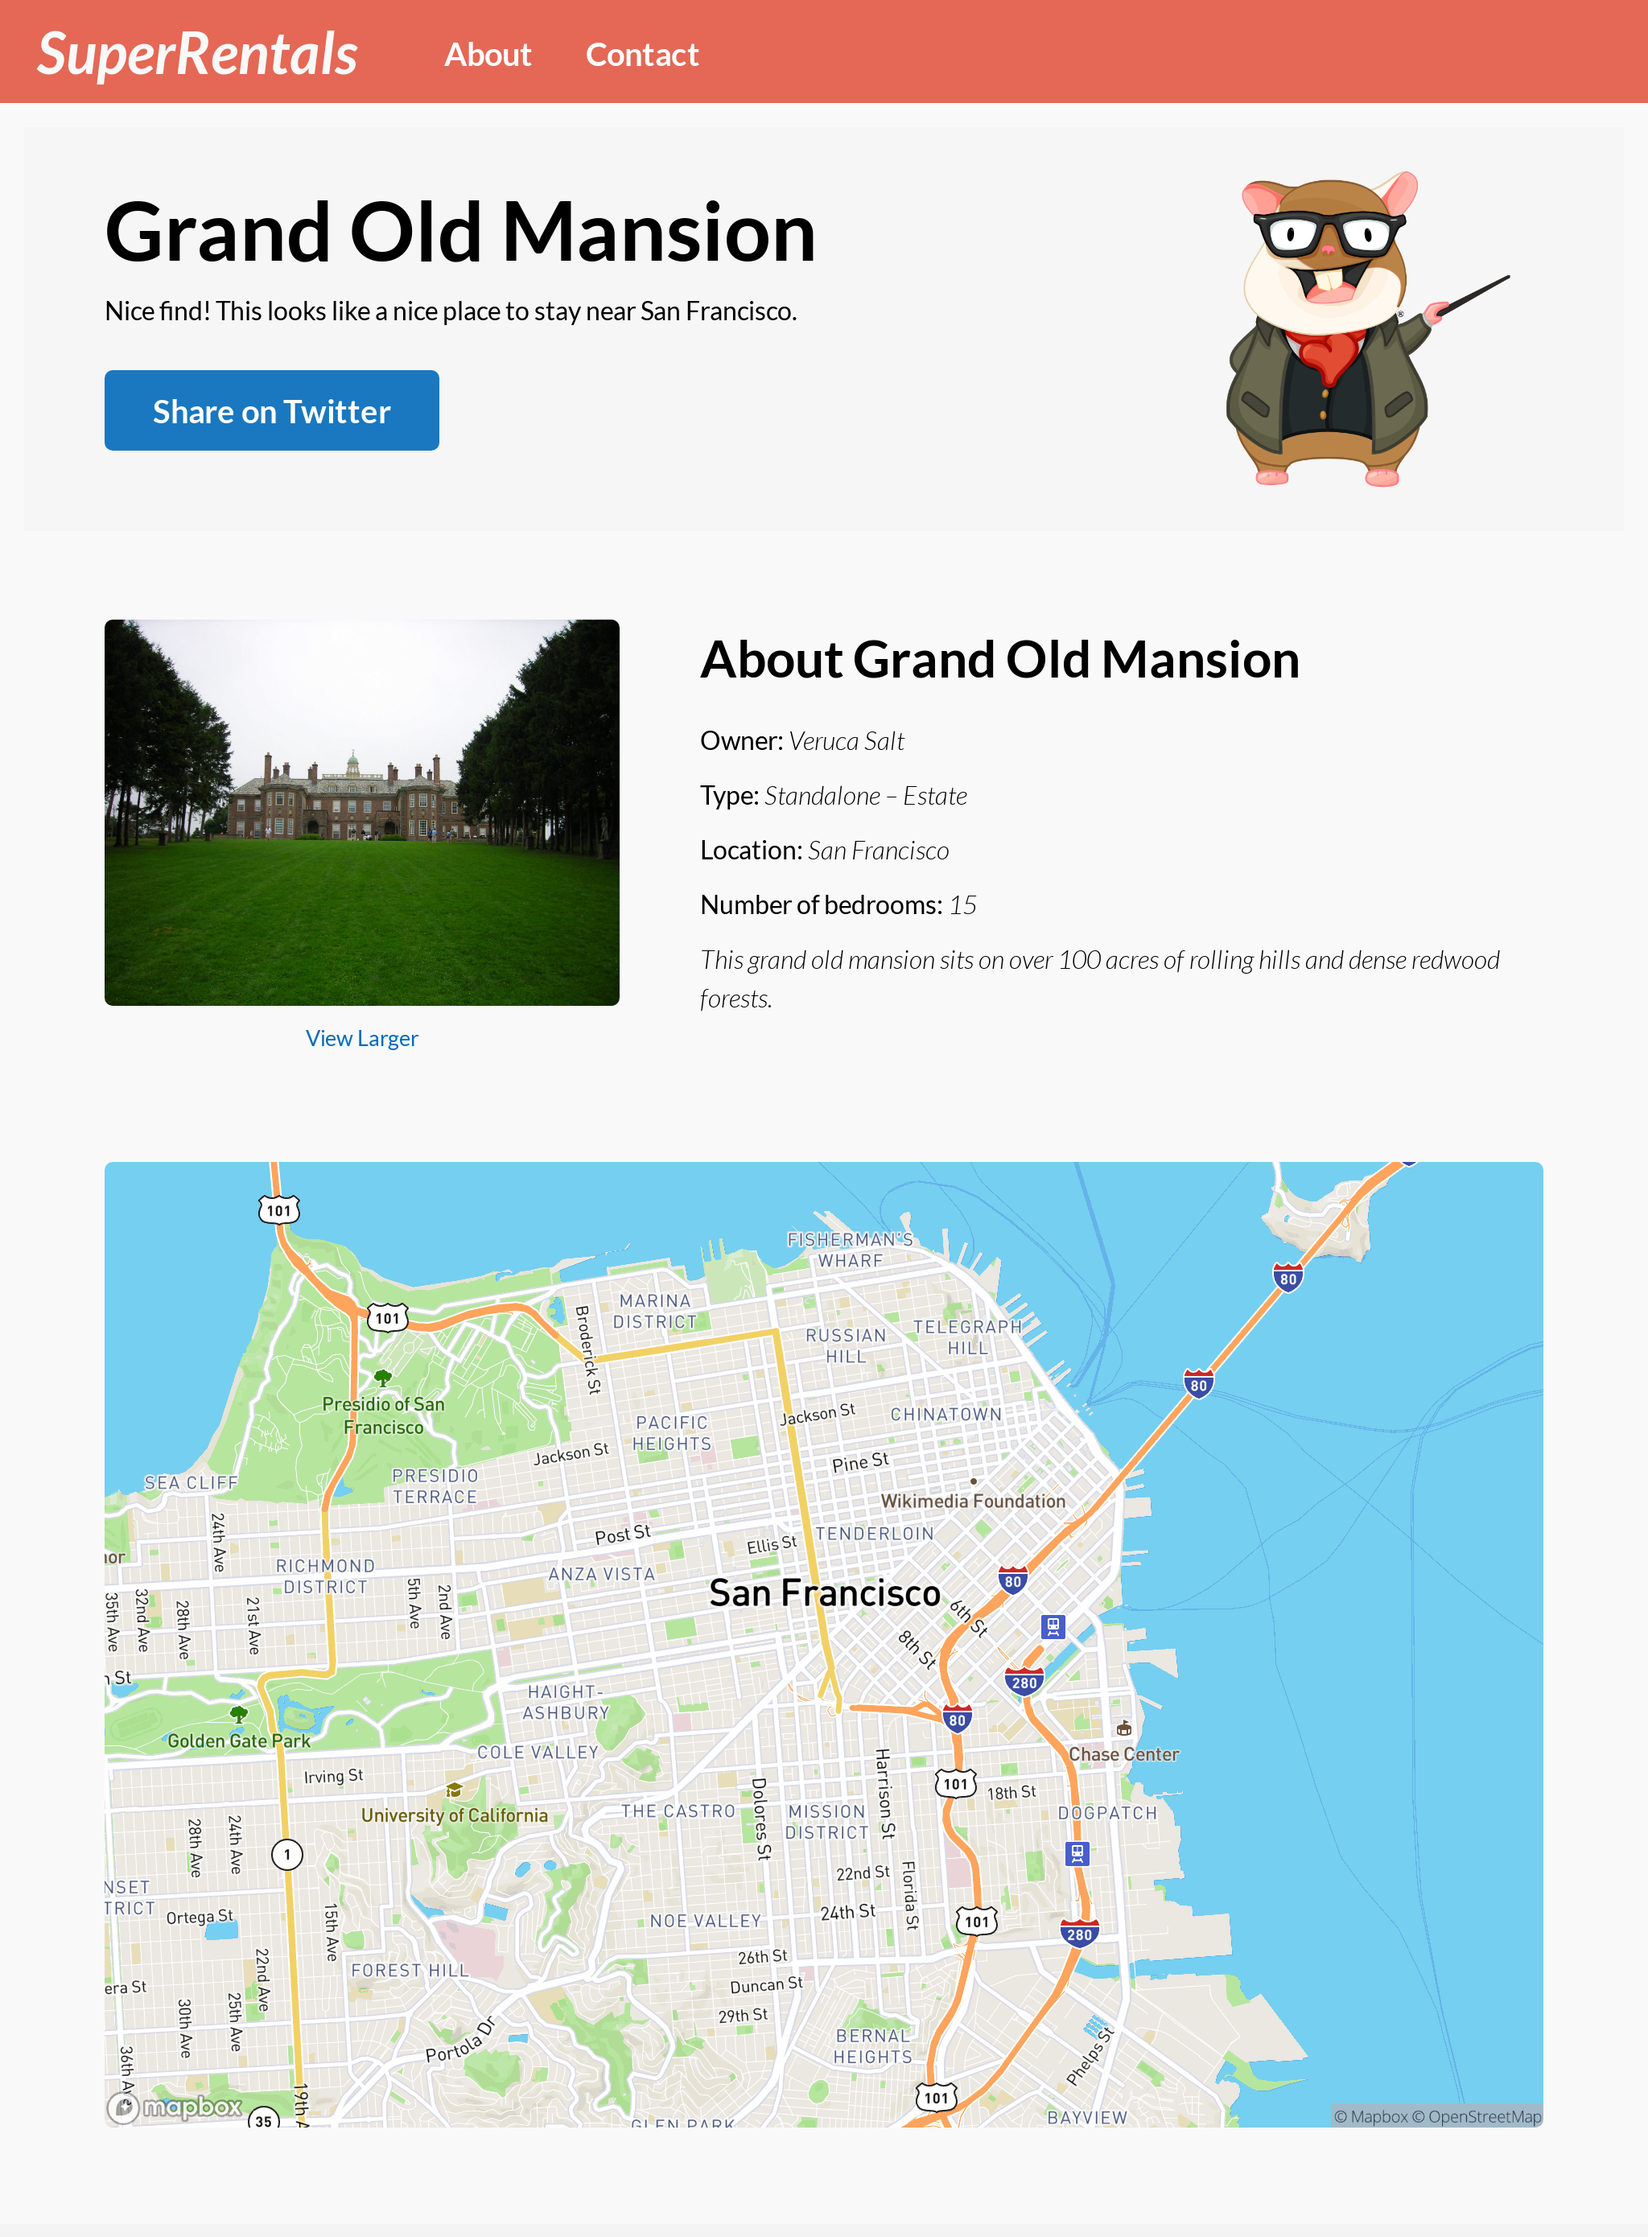
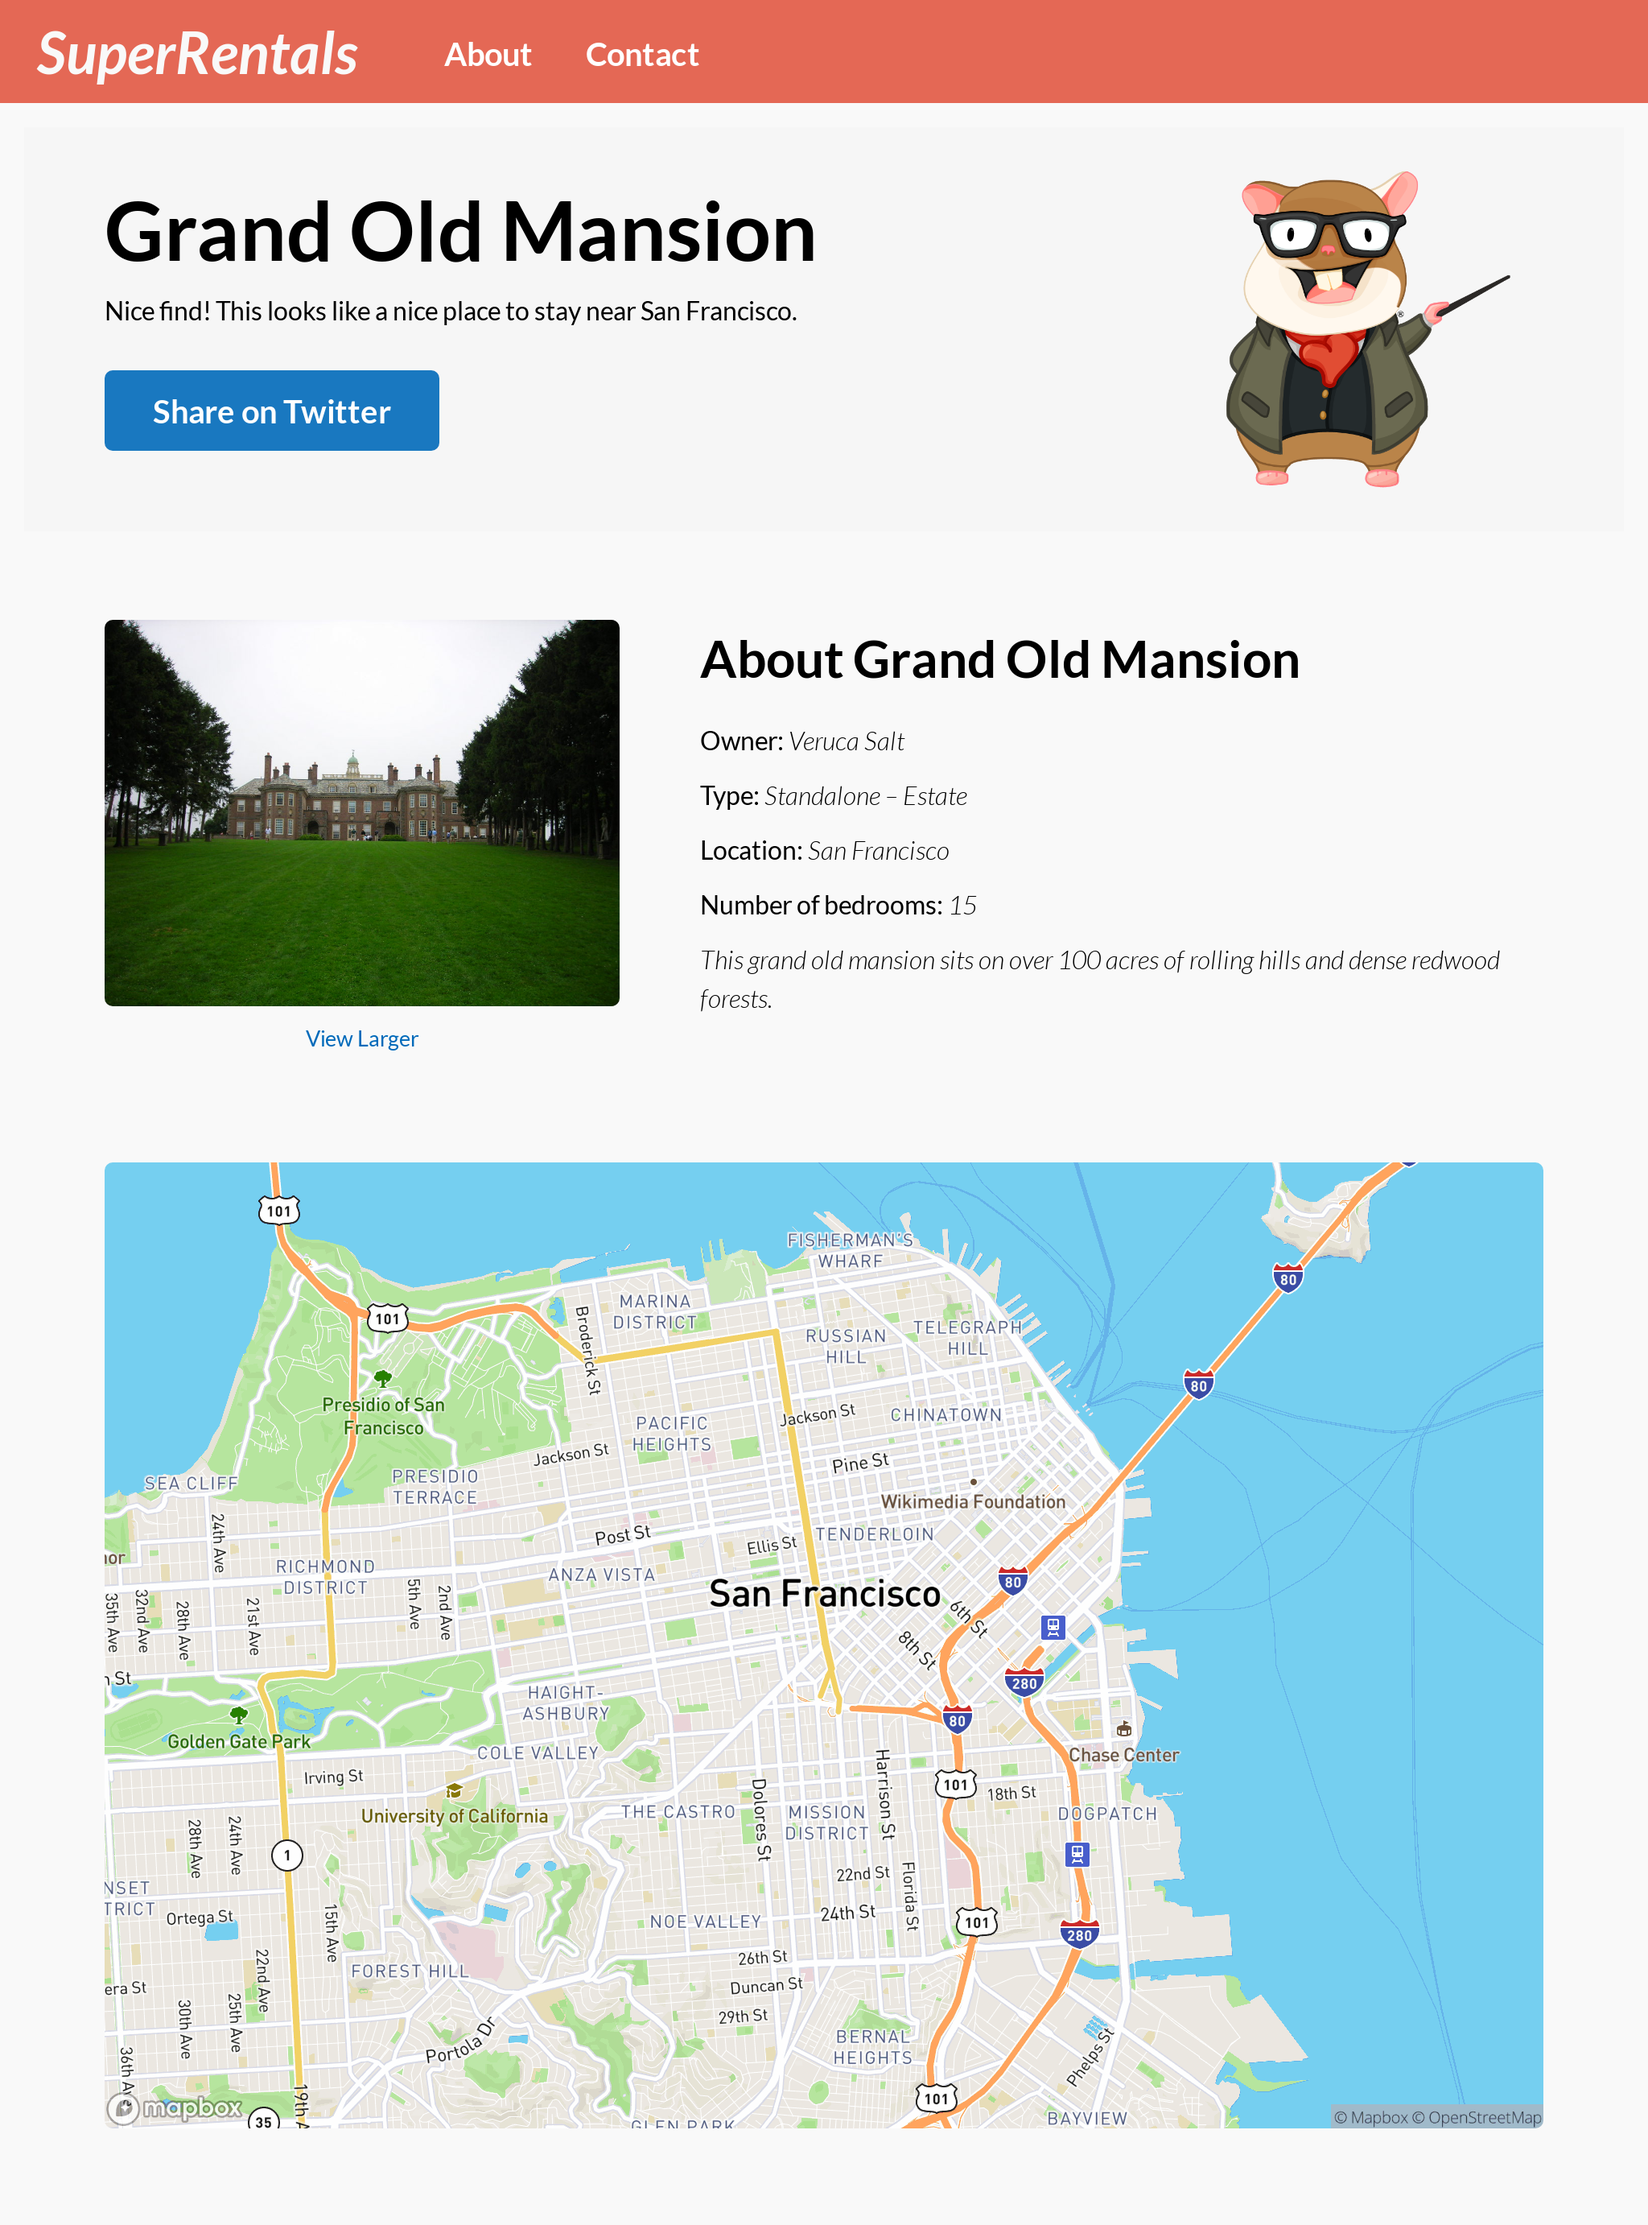
[CRON] Friday May 03, 2024
---

Commit:  ember-learn/super-rentals-tutorial@04dca996b7849612c36a6c50eb27c89b65b170ad
Script:  https://github.com/ember-learn/super-rentals-tutorial/blob/04dca996b7849612c36a6c50eb27c89b65b170ad/.github/workflows/build.yml
Logs:    https://github.com/ember-learn/super-rentals-tutorial/commit/04dca996b7849612c36a6c50eb27c89b65b170ad/checks

diff --git a/guides/release/tutorial/part-2/ember-data.md b/guides/release/tutorial/part-2/ember-data.md
@@ -357,6 +357,6 @@ The UI works exactly the same as before as well, just with much less code!
 
 <img src="/images/tutorial/part-2/ember-data/homepage@2x.png" alt="The homepage works exactly the same as before, but with much less code!" width="1024" height="1130">
 
-<img src="/images/tutorial/part-2/ember-data/detailed@2x.png" alt="The details page works exactly the same as before, but with much less code!" width="1024" height="1390">
+<img src="/images/tutorial/part-2/ember-data/detailed@2x.png" alt="The details page works exactly the same as before, but with much less code!" width="1024" height="1382">
 
 EmberData offers many, many features (like managing the _relationships_ between different models) and there's a lot more we can learn about it. For example, if your backend's have some inconsistencies across different endpoints, EmberData allows you to define more specific, per-model adapters and serializers too! We are just scratching the surface here. If you want to learn more about EmberData, check out [its own dedicated section](../../../models/) in the guides!
